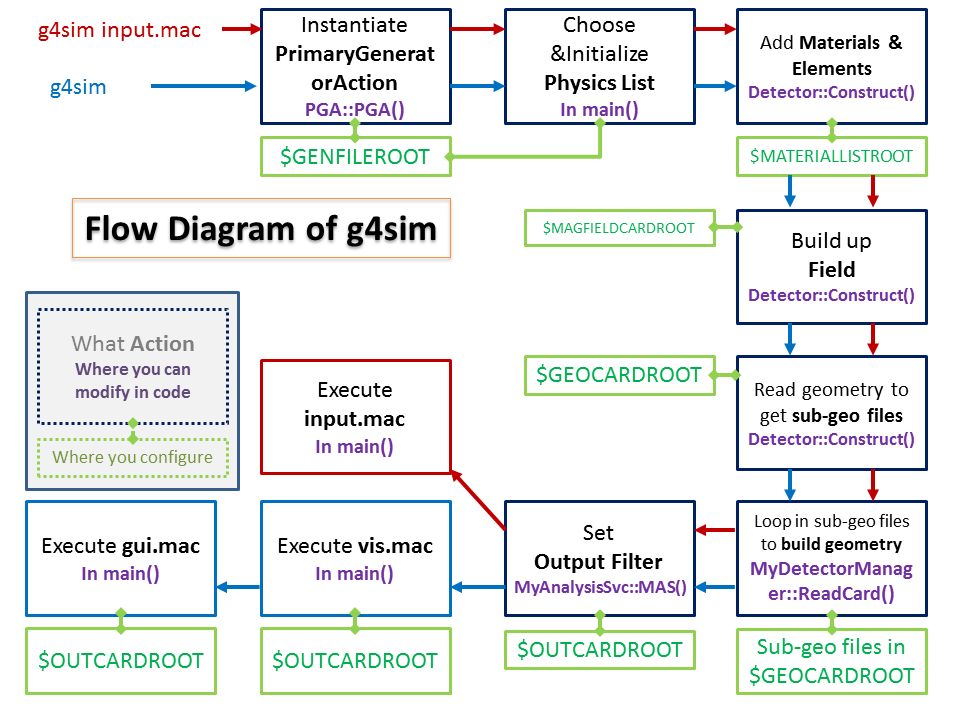
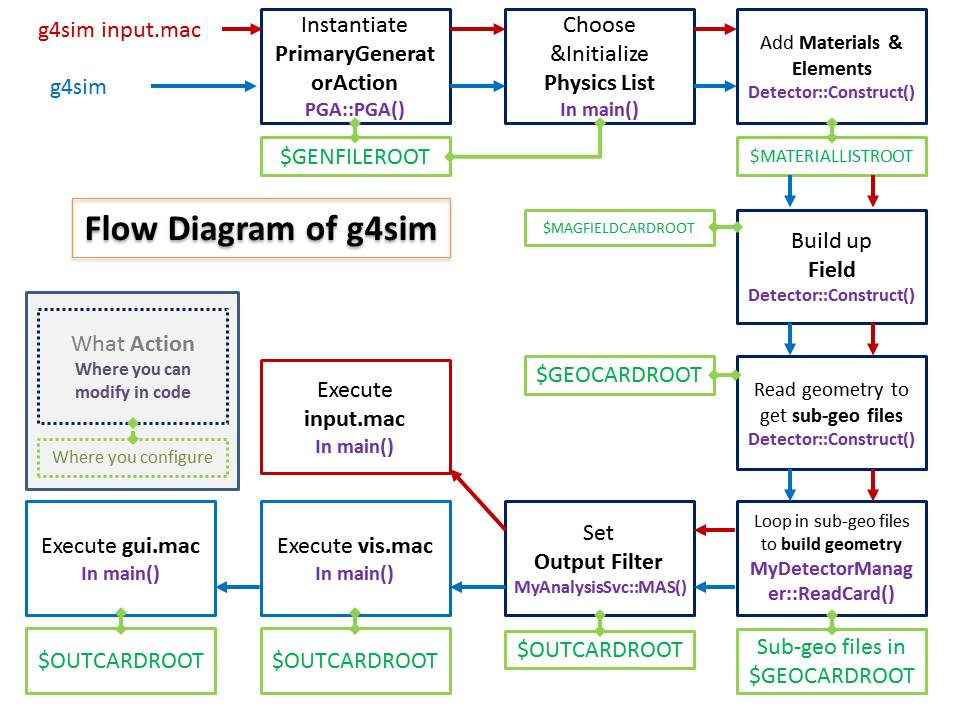
try more formats

diff --git a/README.md b/README.md
@@ -81,7 +81,9 @@ Simulation toolkit based on Geant4 and ROOT
 	Work direcotory can be put any where but remember to set environment variable "MYG4SIMWORKROOT" to it.
 	You can call `g4sim` either in interactive mode or batch mode.  
 	A figure to show how it works:  
-	![Flow Diagram](https://github.com/wuchen1106/g4sim/blob/master/g4sim.png)
+	![Flow Diagram](https://github.com/wuchen1106/g4sim/blob/master/g4sim.jpg "Flow Diagram jpg")
+	![Flow Diagram](https://github.com/wuchen1106/g4sim/blob/master/g4sim.gif "Flow Diagram gif")
+	![Flow Diagram](https://github.com/wuchen1106/g4sim/blob/master/g4sim.png "Flow Diagram png")
 		
 	Remember to change "Default" in "setenv.sh" to the directory name you created.
 	The simplest way is  
